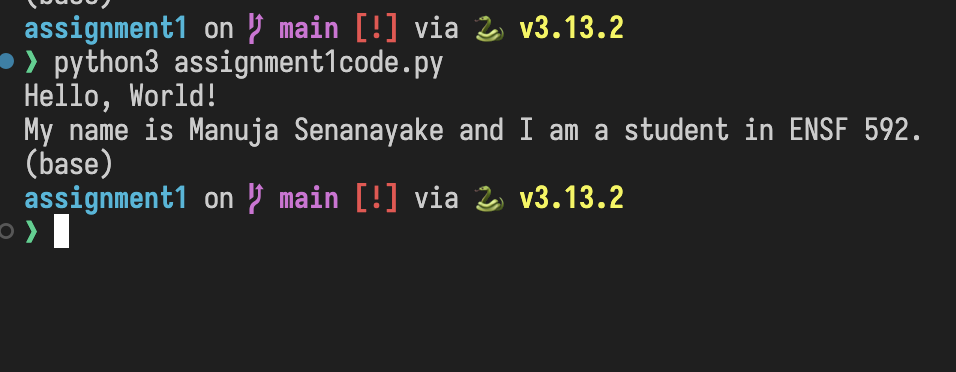
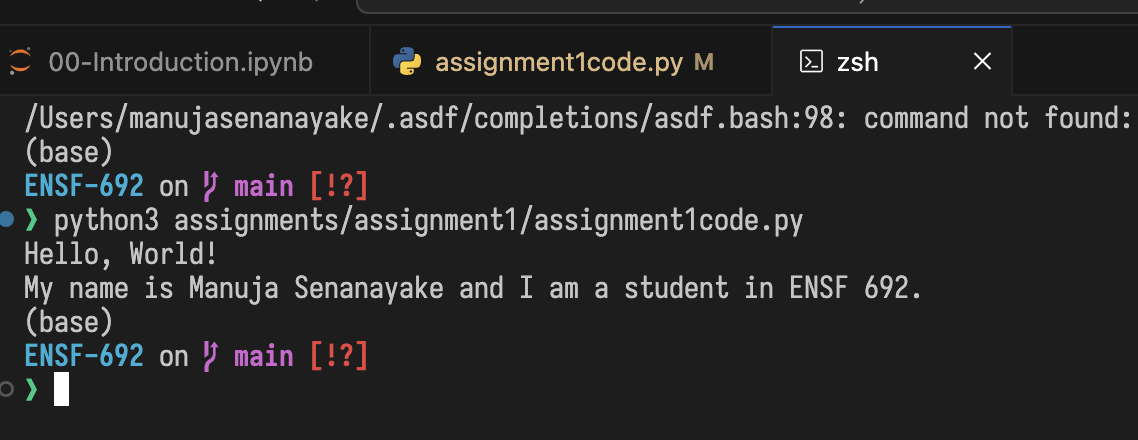
assignment 1 fix; changing and references to 592 to 692. Fixing and dates from previous course and year. Updated readme

diff --git a/assignments/assignment1/assignment1code.py b/assignments/assignment1/assignment1code.py
@@ -1,8 +1,8 @@
-# ENSF 592 Spring 2023
+# ENSF 692 Spring 2025
 # Assignment 1 Starter Code
 # Manuja Senanayake
 
 studentName = "Manuja Senanayake"  # Change the contents of this variable to your name (leave the quotation marks).
 
 print("Hello, World!")
-print("My name is " + studentName + " and I am a student in ENSF 592.")
+print("My name is " + studentName + " and I am a student in ENSF 692.")
